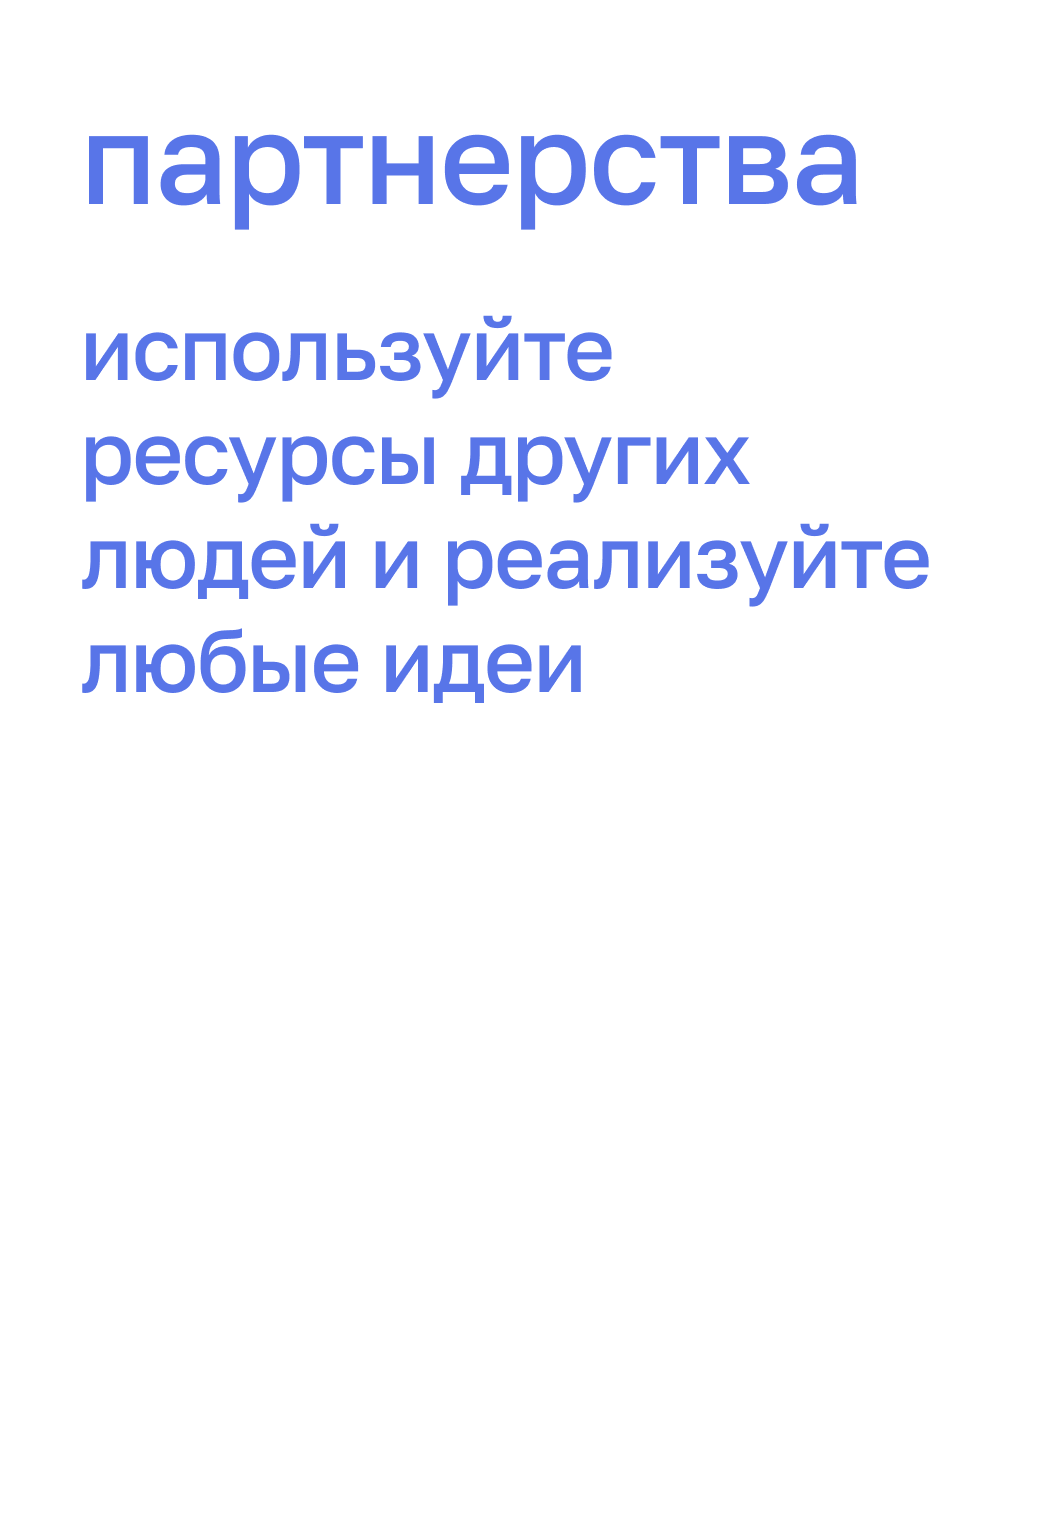
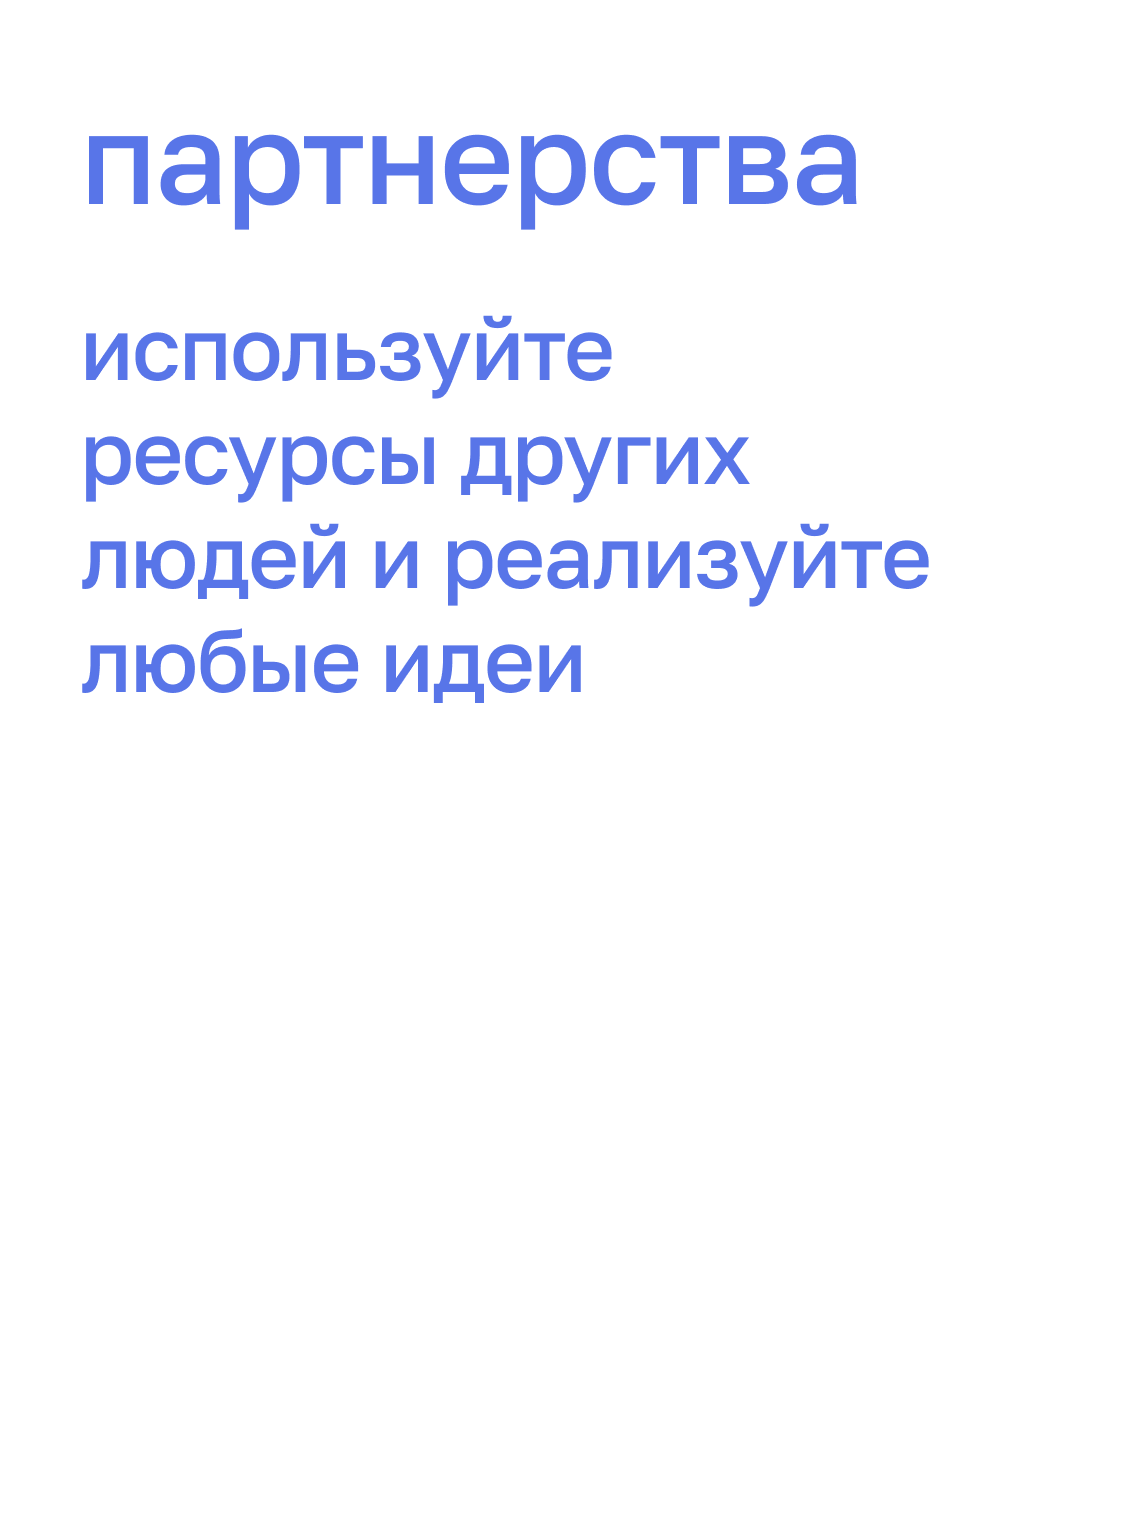
работали над лендосом

Changed region(s): [[0.0625, 0.1841, 0.875, 0.4602], [0.0625, 0.0614, 0.8125, 0.1534]]

diff --git a/src/components/landing/LandingPage.js b/src/components/landing/LandingPage.js
@@ -36,7 +36,7 @@ import seven2 from "./slides2/7.png";
 import eight2 from "./slides2/8.png";
 import nine2 from "./slides2/9.png";
 import Link from "next/link";
-import { useEffect } from "react";
+import { useEffect, useRef } from "react";
 import { useRouter } from "next/navigation";
 
 const roadmap = [
@@ -232,6 +232,7 @@ const users = [
 ];
 
 const LandingPage = () => {
+  const roadmapRef = useRef();
   const router = useRouter();
   useEffect(() => {
     router.refresh();
@@ -239,7 +240,7 @@ const LandingPage = () => {
 
   return (
     <div className="w-full h-full flex flex-col">
-      <WTF />
+      <WTF roadmapRef={roadmapRef} />
       {/* <LandingGearsComponents /> */}
 
       <div className="h-full flex-col flex gap-[64px] mt-[calc(100vh+64px)] text-center items-center">
@@ -248,10 +249,13 @@ const LandingPage = () => {
             className="flex flex-col gap-[12px] text-center items-center [@media(pointer:coarse)]:px-[12px]"
             key={key}
           >
-            <p className="text-[#2D52E6] text-[38px] whitespace-pre-wrap text-center font-semibold leading-[38px] tracking-[-1.52px]">
+            <p className="text-[#2D52E6] text-[36px] [@media(hover)]:hidden [@media(pointer:coarse)]:text-[28px] [@media(pointer:coarse)]:leading-[28px] whitespace-pre-wrap text-center font-bold leading-[36px] tracking-[-1.14px]">
+              {item.title.replace("\n", " ")}
+            </p>
+            <p className="text-[#2D52E6] text-[36px] [@media(pointer:coarse)]:hidden [@media(pointer:coarse)]:text-[28px] [@media(pointer:coarse)]:leading-[28px] whitespace-pre-wrap text-center font-bold leading-[36px] tracking-[-1.52px]">
               {item.title}
             </p>
-            <p className="text-[#5E5E5E] text-[16px] font-normal leading-[19px] mb-[24px] tracking-[-0.32px]">
+            <p className="text-[#7d7d7d] text-[16px] font-medium leading-[19px] mb-[24px] tracking-[-0.32px]">
               {item.subtitle}
             </p>
             <video
@@ -274,7 +278,7 @@ const LandingPage = () => {
           </div>
         ))}
 
-        <p className="text-[#2D52E6] text-[38px] font-semibold whitespace-pre-wrap leading-[38px] tracking-[-1.52px] flex flex-wrap [@media(hover)]:w-[652px]  [@media(pointer:coarse)]:px-[12px]">
+        <p className="text-[#2D52E6] text-[36px] font-bold text-center [@media(pointer:coarse)]:text-[28px] [@media(pointer:coarse)]:leading-[28px] whitespace-pre-wrap leading-[36px] tracking-[-1.52px] flex flex-wrap  [@media(pointer:coarse)]:px-[12px]">
           practica <span className="fancyText">многогранна</span>
         </p>
 
@@ -347,8 +351,12 @@ const LandingPage = () => {
         </div>
 
         {/* роадмапа */}
-        <p className="text-[#2D52E6] text-[38px] mt-[64px] mb-[15px] whitespace-pre-wrap text-center font-semibold leading-[38px] tracking-[-1.52px]">
+        <p className="text-[#2D52E6] text-[36px] relative [@media(pointer:coarse)]:mb-[-32px] [@media(pointer:coarse)]:text-[28px] [@media(pointer:coarse)]:leading-[28px] mt-[64px] mb-[15px] whitespace-pre-wrap text-center font-semibold leading-[36px] tracking-[-1.52px]">
           Roadmap
+          <div
+            className="absolute w-[5px] h-[5px]  top-[-125px]"
+            ref={roadmapRef}
+          />
         </p>
 
         <Slider2 roadmap={roadmap} />
@@ -381,7 +389,7 @@ const LandingPage = () => {
 
         {/* bottom */}
         <div className="flex flex-col gap-[24px] text-start w-full [@media(hover)]:ml-[66px] mb-[83px] [@media(pointer:coarse)]:px-[12px]">
-          <div className="flex flex-col gap-[5px]">
+          <div className="flex flex-col gap-[5px] w-full">
             <p className="text-[48px] font-bold leading-[58px] tracking-[-1.2px] text-[#5875e8]">
               practica
             </p>
@@ -391,15 +399,15 @@ const LandingPage = () => {
           </div>
 
           <div className="flex flex-col gap-[5px]">
-            <p className="text-[20px] font-medium leading-[24px] tracking-[-1.2px] text-[#2c2c2c]">
+            <p className="text-[20px] font-medium leading-[24px] tracking-[-0.3px] text-[#2c2c2c]">
               Общая почта:
             </p>
-            <p className="text-[20px] cursor-pointer underline hover:text-[#3A56C5] active:text-[#2C429C] transition duration-[250ms] font-medium leading-[24px] tracking-[-1.2px] text-[#5875e8]">
-              info@practica.com
+            <p className="text-[20px] cursor-pointer underline hover:text-[#3A56C5] active:text-[#2C429C] transition duration-[250ms] font-medium leading-[24px] tracking-[-0.3px] text-[#5875e8]">
+              info@practicajobs.ru
             </p>
           </div>
 
-          <div className="flex flex-col gap-[5px]">
+          {/* <div className="flex flex-col gap-[5px]">
             <p className="text-[20px] font-medium leading-[24px] tracking-[-1.2px] text-[#2c2c2c]">
               Для коммерческого сотрудничества:
             </p>
@@ -415,11 +423,11 @@ const LandingPage = () => {
             <p className="text-[20px] cursor-pointer underline hover:text-[#3A56C5] active:text-[#2C429C] transition duration-[250ms] font-medium leading-[24px] tracking-[-1.2px] text-[#5875e8]">
               press@practica.com
             </p>
-          </div>
+          </div> */}
         </div>
         {/* bottom */}
 
-        <div className="flex w-full text-start flex-row gap-[32px] [@media(hover)]:ml-[66px] h-fit [@media(pointer:coarse)]:px-[12px]">
+        <div className="flex w-full text-start flex-row [@media(pointer:coarse)]:flex-col gap-[32px] [@media(hover)]:ml-[66px] h-fit [@media(pointer:coarse)]:px-[12px]">
           <Link
             target={"_blank"}
             href={
@@ -449,7 +457,7 @@ const LandingPage = () => {
           </Link>
         </div>
 
-        <div className="flex flex-col gap-[6px] [@media(hover)]:ml-[66px] min-h-[104px]  w-full text-start">
+        <div className="flex flex-col gap-[6px] [@media(hover)]:ml-[66px] [@media(pointer:coarse)]:px-[12px] min-h-[104px]  w-full text-start">
           <p className="text-[12px] font-medium text-[#8f8f8f]">
             ООО «Практика»
           </p>

diff --git a/src/components/landing/WTF.js b/src/components/landing/WTF.js
@@ -12,12 +12,13 @@ import {
 import { degreesToRadians, progress, mix } from "popmotion";
 import Image from "next/image";
 import TextLogo from "./TextLogo";
-import EnterIcon from "shared/icons/EnterIcon";
+import EnterIcon from "../../shared/icons/EnterIcon";
 import { useMediaQuery } from "react-responsive";
 import { useEffect } from "react";
 import Gear from "./Gear";
 import noise from "./noise.png";
 import { useRouter } from "next/navigation";
+import CompAssIcon from "../../shared/icons/CompAssIcon";
 
 const color = "#5875e8";
 
@@ -87,15 +88,15 @@ function Scene({ numStars = 500 }) {
   );
 }
 
-export default function WTF() {
+export default function WTF({ roadmapRef = null }) {
   const [transit, setTransit] = useState(false);
   const [fixed, setFixed] = useState(false);
 
   const router = useRouter();
 
   const setFixedHandler = () => {
-    if (window.scrollY >= window.innerHeight - 74) setFixed(true);
-    if (window.scrollY < window.innerHeight - 74) setFixed(false);
+    if (window.scrollY >= window.innerHeight - 76) setFixed(true);
+    if (window.scrollY < window.innerHeight - 76) setFixed(false);
   };
 
   if (typeof window !== "undefined")
@@ -138,6 +139,21 @@ export default function WTF() {
           </AnimatePresence>
         </div>
 
+        <div
+          // onClick={() => setTransit(!transit)}
+          className={
+            fixed
+              ? "cursor-pointer fixed top-[15px] left-[3%] select-none [@media(pointer:coarse)]:w-[135px] z-[10] [@media(pointer:coarse)]:left-[5%] w-[150px] text-[16px] font-medium px-[16px] py-[12px] leading-[19px] tracking-[-0.24px] text-[#5875e8] hover:text-[#3A56C5] active:text-[#2C429C] transition duration-[250ms] bg-[#fff] flex flex-row gap-[8px] items-center justify-center group rounded-[16px]"
+              : "cursor-pointer absolute bottom-[15px] select-none [@media(pointer:coarse)]:w-[135px] left-[3%] z-[70] [@media(pointer:coarse)]:left-[5%] w-[150px] text-[16px] font-medium px-[16px] py-[12px] leading-[19px] tracking-[-0.24px] text-[#5875e8] hover:text-[#3A56C5] active:text-[#2C429C] transition duration-[250ms] bg-[#fff] flex flex-row gap-[8px] items-center justify-center group rounded-[16px]"
+          }
+          onClick={() => {
+            roadmapRef?.current?.scrollIntoView({ behavior: "smooth" });
+          }}
+        >
+          <CompAssIcon />
+          Roadmap
+        </div>
+
         <Gear
           style={
             fixed
@@ -150,8 +166,8 @@ export default function WTF() {
           // onClick={() => setTransit(!transit)}
           className={
             fixed
-              ? "cursor-pointer fixed top-[12px] right-[3%] z-[10] [@media(pointer:coarse)]:right-[5%] [@media(hover)]:w-[118px] text-[16px] font-medium px-[16px] py-[12px] leading-[19px] tracking-[-0.24px] text-[#5875e8] hover:text-[#3A56C5] active:text-[#2C429C] transition duration-[250ms] bg-[#fff] flex flex-row gap-[8px] items-center justify-center group rounded-[16px]"
-              : "cursor-pointer absolute bottom-[15px] right-[3%] z-[70] [@media(pointer:coarse)]:right-[5%] [@media(hover)]:w-[118px] text-[16px] font-medium px-[16px] py-[12px] leading-[19px] tracking-[-0.24px] text-[#5875e8] hover:text-[#3A56C5] active:text-[#2C429C] transition duration-[250ms] bg-[#fff] flex flex-row gap-[8px] items-center justify-center group rounded-[16px]"
+              ? "cursor-pointer fixed top-[15px] right-[3%] select-none [@media(pointer:coarse)]:w-[135px] z-[10] [@media(pointer:coarse)]:right-[5%] w-[150px] text-[16px] font-medium px-[16px] py-[12px] leading-[19px] tracking-[-0.24px] text-[#5875e8] hover:text-[#3A56C5] active:text-[#2C429C] transition duration-[250ms] bg-[#fff] flex flex-row gap-[8px] items-center justify-center group rounded-[16px]"
+              : "cursor-pointer absolute bottom-[15px] select-none [@media(pointer:coarse)]:w-[135px] right-[3%] z-[70] [@media(pointer:coarse)]:right-[5%] w-[150px] text-[16px] font-medium px-[16px] py-[12px] leading-[19px] tracking-[-0.24px] text-[#5875e8] hover:text-[#3A56C5] active:text-[#2C429C] transition duration-[250ms] bg-[#fff] flex flex-row gap-[8px] items-center justify-center group rounded-[16px]"
           }
           onClick={() => {
             router.push("/auth");

diff --git a/src/app/globals.css b/src/app/globals.css
@@ -163,11 +163,34 @@ input[type="number"] {
   -webkit-background-clip: text;
   -webkit-text-fill-color: transparent;
   font-family: Golos Text;
-  font-size: 38px;
+  font-size: 28px;
   font-style: normal;
   font-weight: 500;
-  line-height: 100%;
+  line-height: 28px;
   letter-spacing: -1.52px;
+}
+
+@media (hover: hover) {
+  .fancyText {
+    background: linear-gradient(
+      90deg,
+      #5875e8 43.65%,
+      #b072f4 52.95%,
+      #d76890 60.86%,
+      #80de7a 67.82%,
+      #fd8863 72.71%,
+      #ea9e13 79.35%
+    );
+    background-clip: text;
+    -webkit-background-clip: text;
+    -webkit-text-fill-color: transparent;
+    font-family: Golos Text;
+    font-size: 36px;
+    font-style: normal;
+    font-weight: 500;
+    line-height: 36px;
+    letter-spacing: -1.52px;
+  }
 }
 
 .fancyBg1 {

diff --git a/src/shared/icons/CompAssIcon.js b/src/shared/icons/CompAssIcon.js
@@ -1,0 +1,25 @@
+const CompAssIcon = (props) => (
+  <svg
+    xmlns="http://www.w3.org/2000/svg"
+    width={21}
+    height={20}
+    fill="none"
+    {...props}
+  >
+    <path
+      className="stroke-[#5875e8] group-hover:stroke-[#3A56C5] group-active:stroke-[#2C429C] transition duration-[250ms]"
+      strokeLinecap="round"
+      strokeLinejoin="round"
+      strokeWidth={1.8}
+      d="M10.5 17.5a7.5 7.5 0 1 0 0-15 7.5 7.5 0 0 0 0 15Z"
+    />
+    <path
+      className="stroke-[#5875e8] group-hover:stroke-[#3A56C5] group-active:stroke-[#2C429C] transition duration-[250ms]"
+      strokeLinecap="round"
+      strokeLinejoin="round"
+      strokeWidth={1.8}
+      d="m13.83 6.667-2.083 4.583-4.583 2.083L9.247 8.75l4.584-2.083Z"
+    />
+  </svg>
+);
+export default CompAssIcon;
